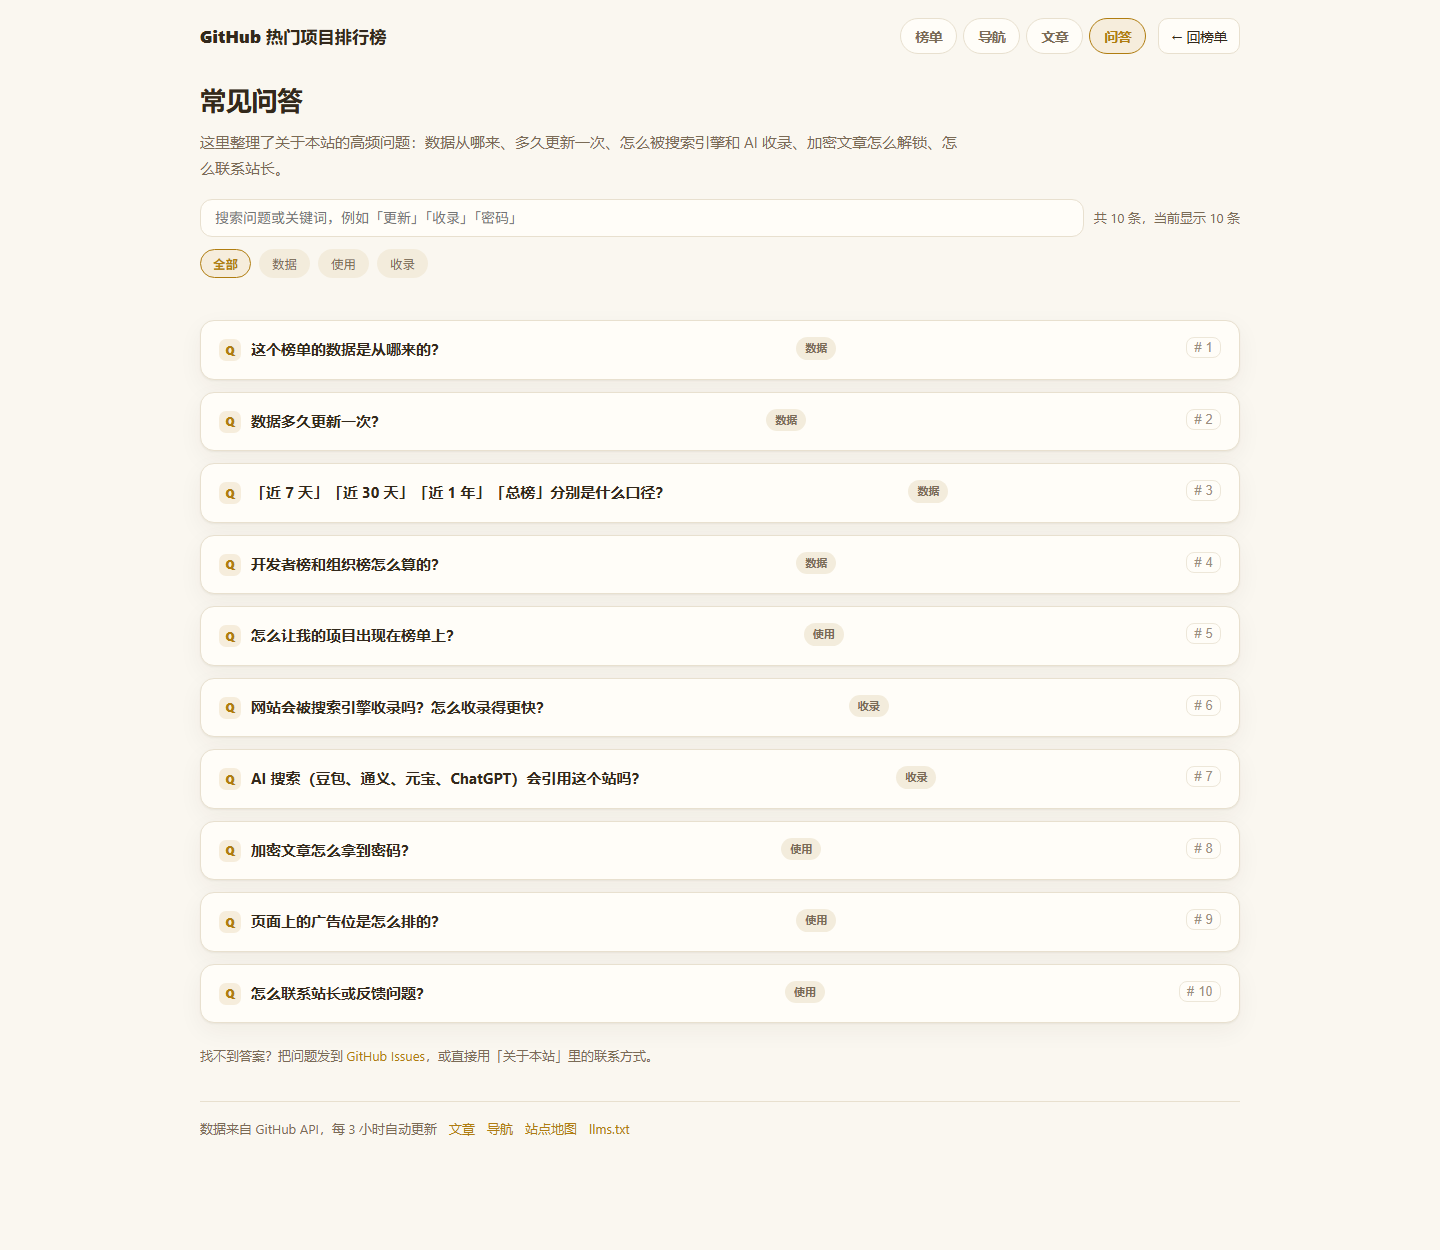
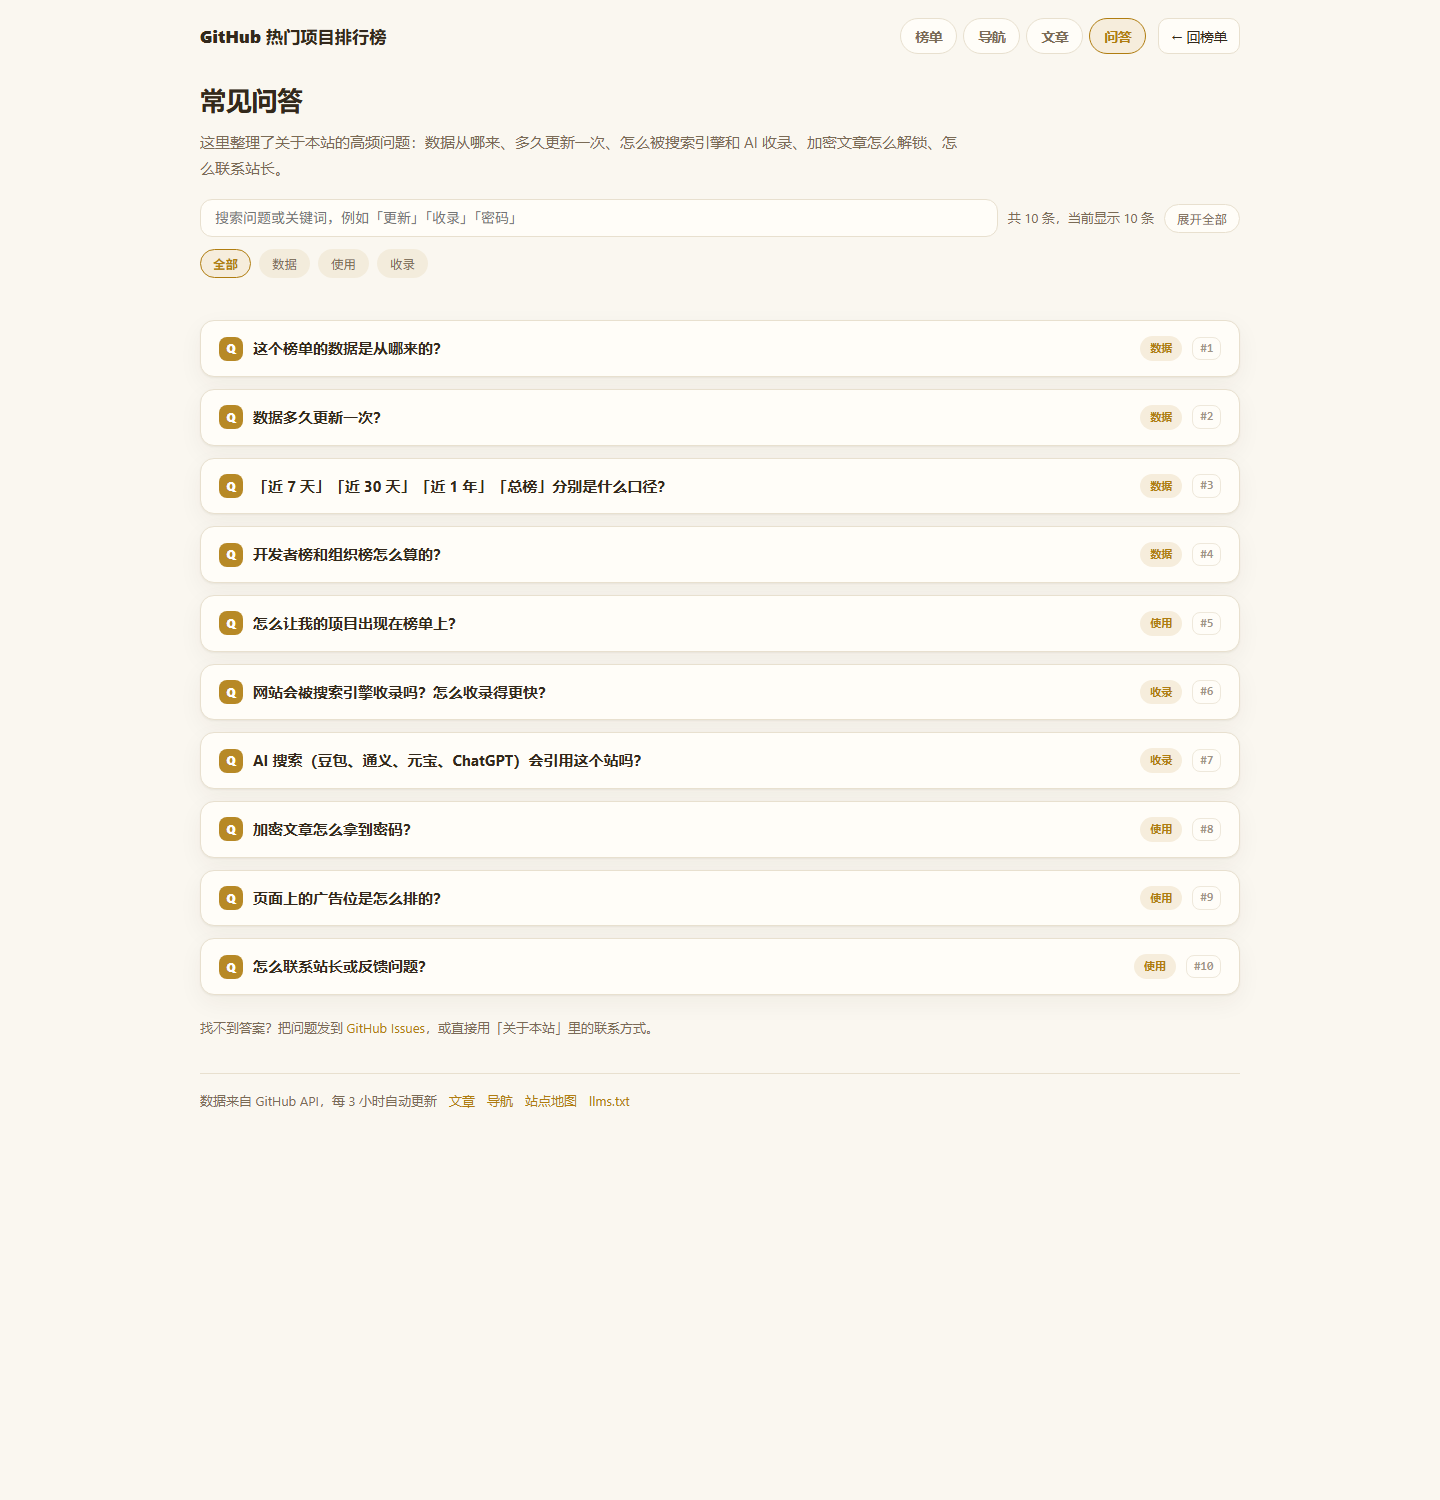
feat: 首页文章卡片化 + 问答页四列重排 + 修 /faq 点榜单跳导航页；v76

diff --git a/index.html b/index.html
@@ -407,12 +407,24 @@ dialog::backdrop{overflow:hidden;overscroll-behavior:contain}
   .geo-qa summary{cursor:pointer;font-size:14px;font-weight:600;min-height:32px;display:flex;align-items:center}
   .geo-qa p{margin:6px 0 0;color:var(--muted);font-size:13px}
   .articles{margin-top:28px;padding:var(--pad);background:var(--card);border:1px solid var(--border);border-radius:var(--radius);box-shadow:var(--shadow);min-width:0}
-  .articles h2{font-size:16px;margin:0 0 10px}
-  .article-item{border-top:1px solid var(--border);padding:10px 0;min-width:0}
-  .article-item h3{font-size:15px;margin:0 0 4px;overflow-wrap:anywhere}
-  .article-meta{margin:0;font-size:12px;color:var(--muted);font-family:Consolas,ui-monospace,monospace}
-  .article-item>p{margin:6px 0 0;font-size:13px;color:var(--muted);overflow-wrap:anywhere}
-  .article-item details{margin-top:6px}
+  .arthead{display:flex;align-items:baseline;gap:10px;flex-wrap:wrap;margin:0 0 14px}
+  .arthead h2{font-size:16px;margin:0}
+  .arthead .artnote{font-size:12px;color:var(--muted)}
+  .arthead .artmore{margin-left:auto;font-size:13px;color:var(--accent);font-weight:600}
+  .artgrid{display:grid;gap:12px;grid-template-columns:repeat(auto-fill,minmax(280px,1fr))}
+  .artcard{display:flex;flex-direction:column;gap:8px;padding:14px 15px;border:1px solid var(--border);border-radius:var(--radius);background:var(--bg);transition:border-color .15s,transform .15s,box-shadow .15s}
+  .artcard:hover{border-color:var(--accent);transform:translateY(-1px);box-shadow:var(--shadow)}
+  .artcard-top{display:flex;align-items:center;gap:8px;font-size:12px;color:var(--muted)}
+  .artcard-cat{padding:2px 8px;border-radius:999px;background:var(--chip);color:var(--accent);font-weight:600}
+  .artcard-top time{margin-left:auto;font-family:Consolas,ui-monospace,monospace}
+  .artcard h3{font-size:15px;line-height:1.45;margin:0;overflow-wrap:anywhere}
+  .artcard h3 a{color:var(--fg)}
+  .artcard h3 a:hover{color:var(--accent);text-decoration:none}
+  .artcard-sum{margin:0;font-size:13px;color:var(--muted);line-height:1.65;display:-webkit-box;-webkit-line-clamp:2;-webkit-box-orient:vertical;overflow:hidden}
+  .artcard-foot{margin-top:auto;display:flex;align-items:center;gap:10px;font-size:12.5px;color:var(--muted)}
+  .artcard-foot .read{color:var(--accent);font-weight:600}
+  .artcard-foot .lock{color:var(--gold)}
+  @media (max-width:600px){.artgrid{grid-template-columns:1fr}}
 .article-body{font-size:13px}
 .article-body p,.article-body li{margin:6px 0;line-height:1.7;overflow-wrap:anywhere}
 .article-body h2,.article-body h3,.article-body h4{font-size:14px;margin:12px 0 4px}
@@ -621,7 +633,7 @@ html[data-theme="ink"] meta,html[data-theme="ink"]{color-scheme:dark}
       <div id="geoFaq" class="geo-faq" hidden></div>
       </dialog>
     <section class="articles" id="articles" aria-labelledby="articlesTitle" hidden>
-      <h2 id="articlesTitle">文章</h2>
+      <div class="arthead"><h2 id="articlesTitle">最新文章</h2><span class="artnote" id="artNote"></span><a class="artmore" href="/articles">全部文章 →</a></div>
       <div class="ad-slot" id="adArticle" role="region" aria-label="广告位（文章区）" hidden></div>
       <div id="articleList"></div>
     </section>
@@ -984,6 +996,13 @@ html[data-theme="ink"] meta,html[data-theme="ink"]{color-scheme:dark}
       var box=document.getElementById('articles');
       if(box) box.hidden=true;
     }
+    function artHref(it){
+      var slug=str(it.slug)||'';
+      if(!slug) return '/articles';
+      var parts=slug.split('/').filter(Boolean).map(function(x){ return encodeURIComponent(x); }).join('/');
+      return '/articles/'+parts+'.html';
+    }
+
     function renderArticles(list){
       window.__ghrankArticles=list||[];
       var box=document.getElementById('articles');
@@ -992,55 +1011,57 @@ html[data-theme="ink"] meta,html[data-theme="ink"]{color-scheme:dark}
       var items=Array.isArray(list)?list.filter(function(it){ return it&&str(it.title); }):[];
       if(!items.length){ hideArticles(); return; }
       items.sort(function(a,b){ return String(b.date||'').localeCompare(String(a.date||'')); });
-      var frag=document.createDocumentFragment();
+      var note=document.getElementById('artNote');
+      if(note) note.textContent='共 '+items.length+' 篇';
+      var grid=document.createElement('div');
+      grid.className='artgrid';
       items.forEach(function(it,idx){
-        var art=document.createElement('article');
-        art.className='article-item';
-        var h=document.createElement('h3');
-        h.textContent=str(it.title);
-        art.appendChild(h);
+        var card=document.createElement('article');
+        card.className='artcard';
+        var top=document.createElement('div');
+        top.className='artcard-top';
+        var c=document.createElement('span');
+        c.className='artcard-cat';
+        c.textContent=str(it.category)||'随笔';
+        top.appendChild(c);
         var date=str(it.date);
         if(date){
-          var meta=document.createElement('p');
-          meta.className='article-meta';
           var tm=document.createElement('time');
           tm.setAttribute('datetime',date);
-          tm.textContent=date;
-          meta.appendChild(tm);
-          art.appendChild(meta);
+          tm.textContent=date.slice(0,10);
+          top.appendChild(tm);
         }
+        card.appendChild(top);
+        var h=document.createElement('h3');
+        var a=document.createElement('a');
+        a.href=artHref(it);
+        a.textContent=str(it.title);
+        h.appendChild(a);
+        card.appendChild(h);
         var sum=str(it.summary);
-        if(sum){
-          var sp=document.createElement('p');
-          sp.textContent=sum;
-          art.appendChild(sp);
-        }
-        var body=String(it.body||'');
-        if(body.trim()){
-          var det=document.createElement('details');
-          var ds=document.createElement('summary');
-          ds.textContent='阅读全文';
-          var bd=document.createElement('div');
-          bd.className='article-body';
-          if(window.KeeMd) bd.innerHTML=KeeMd.render(body); else fillParas(bd,body);
-          det.appendChild(ds);
-          det.appendChild(bd);
-          art.appendChild(det);
-        }
-        frag.appendChild(art);
+        if(sum){ var p=document.createElement('p'); p.className='artcard-sum'; p.textContent=sum; card.appendChild(p); }
+        var foot=document.createElement('div');
+        foot.className='artcard-foot';
+        var read=document.createElement('a');
+        read.className='read';
+        read.href=artHref(it);
+        read.textContent='阅读全文 →';
+        foot.appendChild(read);
+        if(it.locked){ var lk=document.createElement('span'); lk.className='lock'; lk.textContent='🔒 需要密码'; foot.appendChild(lk); }
+        card.appendChild(foot);
+        grid.appendChild(card);
         var ae=(window.ghrankAdEvery&&window.ghrankAdEvery.article)||2;
         if(ae>0&&(idx+1)%ae===0){
           var inlineAd=document.createElement('div');
           inlineAd.className='ad-inline';
           inlineAd.setAttribute('data-ad-inline','article');
-          frag.appendChild(inlineAd);
+          grid.appendChild(inlineAd);
         }
       });
-      wrap.replaceChildren(frag);
+      wrap.replaceChildren(grid);
       box.hidden=false;
       if(window.ghrankMountInline) window.ghrankMountInline();
     }
-
 
     // ---------- 关于本站：弹窗（原生 dialog）----------
     var aboutDlg=document.getElementById('aboutDialog');
@@ -1219,7 +1240,6 @@ html[data-theme="ink"] meta,html[data-theme="ink"]{color-scheme:dark}
       var tr=document.getElementById('tabRank'), tn=document.getElementById('tabNav');
       if(tr){ tr.classList.toggle('is-on',!isNav); tr.setAttribute('aria-selected',String(!isNav)); }
       if(tn){ tn.classList.toggle('is-on',isNav); tn.setAttribute('aria-selected',String(isNav)); }
-      try{ sessionStorage.setItem(VIEW_KEY,isNav?'nav':'rank'); }catch(e){}
       try{ if(history.replaceState) history.replaceState(null,'', isNav?'/?page=nav':'/'); }catch(e){}
       if(isNav) loadNav();
     }
@@ -1229,8 +1249,8 @@ html[data-theme="ink"] meta,html[data-theme="ink"]{color-scheme:dark}
     var navSearchBox=document.getElementById('navSearch');
     if(navSearchBox) navSearchBox.addEventListener('input',function(){ if(navLoaded) renderNav(); });
     // 直接打开导航页：/nav、/?page=nav、/#nav 都认（head 里已提前记下意图）
+    // 只认 URL 里的意图（/nav、/?page=nav、/#nav）；不读历史记忆，否则从 /faq 点「榜单」会跳到导航页
     var wantNav = window.__wantNav === true;
-    try{ if(!wantNav && sessionStorage.getItem(VIEW_KEY)==='nav') wantNav=true; }catch(e){}
     if(wantNav) setView('nav');
 })();
 </script>

diff --git a/faq.html b/faq.html
@@ -40,23 +40,27 @@ h1{font-size:26px;margin:6px 0 8px;letter-spacing:-.3px}
 .chips{display:flex;gap:8px;flex-wrap:wrap;margin:12px 0 22px}
 .chip{padding:4px 12px;border-radius:999px;background:var(--chip);border:1px solid transparent;color:var(--muted);font-size:12.5px;cursor:pointer}
 .chip.is-on{background:var(--accent-soft);border-color:var(--accent);color:var(--accent);font-weight:600}
+#expandAll{margin-left:auto;border-color:var(--line);background:var(--card)}
 .qalist{display:grid;gap:12px}
 .qa{background:var(--card);border:1px solid var(--line);border-radius:var(--radius);box-shadow:var(--shadow);padding:0;overflow:hidden}
 .qa[open]{border-color:var(--accent);box-shadow:0 10px 26px rgba(0,0,0,.07)}
-.qa summary .qlink{margin-left:auto;flex:none;border:1px solid var(--line);background:var(--card);color:var(--muted);border-radius:8px;padding:2px 7px;font:600 11.5px/1.6 inherit;cursor:pointer;opacity:.75}
-.qa summary .qlink:hover{opacity:1;color:var(--accent);border-color:var(--accent)}
-.qa summary{list-style:none;cursor:pointer;padding:16px 18px;font-weight:700;font-size:15px;display:flex;gap:10px;align-items:flex-start}
+.qa summary .qlink{border:1px solid var(--line);background:transparent;color:var(--muted);border-radius:8px;padding:1px 7px;font:600 11.5px/1.7 Consolas,ui-monospace,monospace;cursor:pointer;opacity:.7;white-space:nowrap}
+.qa summary .qlink:hover{opacity:1;color:var(--accent);border-color:var(--accent);background:var(--card)}
+.qa summary{list-style:none;cursor:pointer;padding:15px 18px;font-weight:700;font-size:15px;display:grid;grid-template-columns:24px minmax(0,1fr) auto auto;gap:10px;align-items:center}
+.qa summary:hover{background:var(--accent-soft)}
+.qa[open] summary{background:var(--accent-soft);border-bottom:1px solid var(--line)}
+.qa summary>span.qtext{min-width:0;overflow-wrap:anywhere;line-height:1.5}
 .qa summary::-webkit-details-marker{display:none}
-.qa summary:before{content:"Q";flex:none;width:22px;height:22px;border-radius:7px;background:var(--accent-soft);color:var(--accent);font-weight:800;font-size:12px;display:grid;place-items:center;margin-top:2px}
-.qa[open] summary{border-bottom:1px dashed var(--line)}
-.qa .ans{padding:14px 18px 18px 50px;color:var(--fg);font-size:14.5px}
+.qa summary:before{content:"Q";width:24px;height:24px;border-radius:8px;background:var(--accent);color:#fff;font-weight:800;font-size:12px;display:grid;place-items:center;opacity:.9}
+
+.qa .ans{padding:14px 20px 18px 52px;color:var(--fg);font-size:14.5px;line-height:1.75}
 .qa .ans p{margin:0 0 10px}
 .qa .ans ul,.qa .ans ol{margin:0 0 10px;padding-left:22px}
 .qa .ans code{background:var(--chip);border-radius:5px;padding:1px 5px;font-size:13px}
 .qa .ans table{border-collapse:collapse;width:100%;font-size:13px;margin:8px 0}
 .qa .ans th,.qa .ans td{border:1px solid var(--line);padding:6px 8px;text-align:left}
 .qa .ans a{word-break:break-all}
-.qtag{display:inline-block;margin-left:auto;flex:none;font-size:11px;font-weight:600;color:var(--muted);background:var(--chip);border-radius:999px;padding:2px 9px}
+.qtag{font-size:11px;font-weight:600;color:var(--accent);background:var(--accent-soft);border:1px solid transparent;border-radius:999px;padding:2px 9px;white-space:nowrap}
 .note{color:var(--muted);font-size:13px;margin-top:22px}
 footer{margin-top:34px;padding-top:16px;border-top:1px solid var(--line);color:var(--muted);font-size:13px;display:flex;gap:12px;flex-wrap:wrap}
 .empty{color:var(--muted);padding:22px 0}
@@ -102,6 +106,7 @@ html[data-theme="notion"]{
     <div class="tools">
       <input id="q" type="search" placeholder="搜索问题或关键词，例如「更新」「收录」「密码」" autocomplete="off">
       <span class="note" id="count" style="margin:0"></span>
+      <button type="button" class="chip" id="expandAll" data-open="0">展开全部</button>
     </div>
     <div class="chips" id="tags"></div>
   </section>
@@ -193,12 +198,22 @@ html[data-theme="notion"]{
       box.innerHTML = list.map(function (it, i) {
         var no = QA.items.indexOf(it) + 1;
         return '<details class="qa" id="q-' + no + '"' + (i === 0 && kw ? ' open' : '') + '>' +
-          '<summary>' + esc(it.q) + (it.tag ? '<span class="qtag">' + esc(it.tag) + '</span>' : '') +
-          '<button type="button" class="qlink" data-qcopy="' + no + '" title="复制这一条的直达链接"># ' + no + '</button></summary>' +
+          '<summary><span class="qtext">' + esc(it.q) + '</span>' + (it.tag ? '<span class="qtag">' + esc(it.tag) + '</span>' : '') +
+          '<button type="button" class="qlink" data-qcopy="' + no + '" title="复制这一条的直达链接">#' + no + '</button></summary>' +
           '<div class="ans">' + md(it.a) + '</div></details>';
       }).join('');
     }
     document.getElementById('count').textContent = '共 ' + QA.items.length + ' 条，当前显示 ' + list.length + ' 条';
+  }
+
+  var expandBtn = document.getElementById('expandAll');
+  if (expandBtn) {
+    expandBtn.addEventListener('click', function () {
+      var openAll = expandBtn.getAttribute('data-open') !== '1';
+      Array.prototype.forEach.call(document.querySelectorAll('details.qa'), function (d) { d.open = openAll; });
+      expandBtn.setAttribute('data-open', openAll ? '1' : '0');
+      expandBtn.textContent = openAll ? '收起全部' : '展开全部';
+    });
   }
 
   function renderTags() {

diff --git a/sw.js b/sw.js
@@ -1,5 +1,5 @@
 /* Service Worker：缓存页面外壳（HTML/JS/图标），让离线也能打开；GitHub API 不缓存，由页面自己的 localStorage 管理 */
-const CACHE = 'ghrank-shell-v75';
+const CACHE = 'ghrank-shell-v76';
 const SHELL = ['./', 'index.html', 'js/bundle.js', 'js/md.js', 'manifest.json', 'icon.svg'];
 // 只预缓存 meta（约 2KB）。榜单数据按 range 分文件、由页面按需加载，不再在安装时白下几�?KB
 const DATA = 'data/repos-meta.js';

diff --git a/worker.js b/worker.js
@@ -1413,7 +1413,7 @@ async function injectFaqLd(env, html) {
 
 // 静态资源版本：HTML 里的 /js/*.js 都会被加上 ?v=<这里>，于是能给浏览器一年 immutable；
 // 改了前端就把它 +1（不然用户浏览器会抱着一周的旧 bundle，界面上去点了没反应）
-const ASSET_V = 'v75';
+const ASSET_V = 'v76';
 
 function emptyNav() {
   return { updatedAt: '', groups: [] };

diff --git a/docs/优化建议.md b/docs/优化建议.md
@@ -707,3 +707,17 @@ node scripts/check-worker.mjs      # 本地模拟 Workers 运行时，30+ 项断
 - `replace` 必须自己过滤非对象/无 id 的脏数据，否则写回后文章页渲染会崩（`a.title` 读到 `undefined`）。
 - 撤销快照要在**发起请求前**取（`state.articles.slice()`），请求成功后再取就已经是新列表了。
 - 撤销按钮只保留最近一次操作，不做多级撤销——多级要引入操作栈，收益不高。
+## 47. 第 23 轮：首页文章卡片化 + 问答页重排 + 修「点榜单跳导航页」
+
+| 问题 | 根因 | 修法 | 验证 |
+| --- | --- | --- | --- |
+| 首页文章区是一根根分隔线 + `<details>` 展开，读起来很散 | `renderArticles()` 输出 `.article-item`，正文塞在折叠里 | 改卡片栅格 `.artgrid`（`auto-fill minmax(280px,1fr)`）+ `.artcard`：分类 chip、日期、标题链接（指向 `/articles/<分类>/<序号>.html`）、两行摘要、`阅读全文 →`、加密文章显示 `🔒 需要密码`；标题行加「最新文章 · 共 N 篇 · 全部文章 →」 | CDP 实测 `.artcard` 3 张、首卡标题「麦田 · 本机使用说明」、href `/articles/cat/1.html`、`#artNote` = 「共 3 篇」 |
+| 问答页摘要行里问题、标签、`#N` 三者互相推挤（标签悬在中间、序号贴边） | `summary` 是 `display:flex`，`.qtag` 与 `.qlink` 都写了 `margin-left:auto`，两个 auto 边距互相拉扯 | `summary` 改四列 grid `24px minmax(0,1fr) auto auto`，问题文字包 `.qtext`；Q 徽标改成实心 accent；`.qtag` 改 accent 淡底；`.qlink` 改等宽字体 `#N`；展开态整条淡蓝底 + 实线下边 | CDP 实测 `gridTemplateColumns=24px 877.34px 42px 28.66px`、tag=「数据」、#=「#1」 |
+| 问答页缺少批量操作 | — | 工具行加「展开全部 / 收起全部」（`#expandAll`，`data-open` 记忆，切换所有 `details.qa`） | CDP 点击后 10 条全开、按钮变「收起全部」；再点回 0 条 |
+| **`/faq` 点「榜单」跳到导航页** | `index.html` 用 `sessionStorage['ghrankView']` 记忆上次视图，在 `/faq` 点「榜单」（`href="/"`）后首页读到 `nav` 直接切到导航视图 | 删掉记忆读取与写入，只认 URL 意图（`/nav`、`/?page=nav`、`/#nav`，由 `<head>` 里 `window.__wantNav` 提前记录） | CDP：`/faq` → 点「榜单」→ `pathname="/"`、`rank.hidden=false`、`navView.hidden=true` |
+
+新增自检（`check-worker.mjs` §29）：首页含 `.artgrid`/`.artcard{`/`id="artNote"`/`function artHref`、**不再含** `sessionStorage.getItem(VIEW_KEY)`；`/faq` 含四列 grid、`id="expandAll"`、`span class="qtext"`。门禁结果：**全部通过（回源 74 次，API 100 次）**。
+
+截图：`docs/shots/home-articles.png`（1440×3571，首页文章卡片区）、`docs/shots/faq-page.png`（1440×1500，问答页重排后）。
+
+坑：这一轮 `faq.html` 的多条替换一开始写成「按顺序在内存里连续替换」，第 3 条起就 `matched 0` —— 原因是前一条替换的 `repl` 里又包含了后一条要找的 `find` 片段，顺序替换判定不可靠。改成 **每条 op 重新读文件、命中才写** 就稳了（`scripts/tmp-patch23c.mjs` 的写法）。
